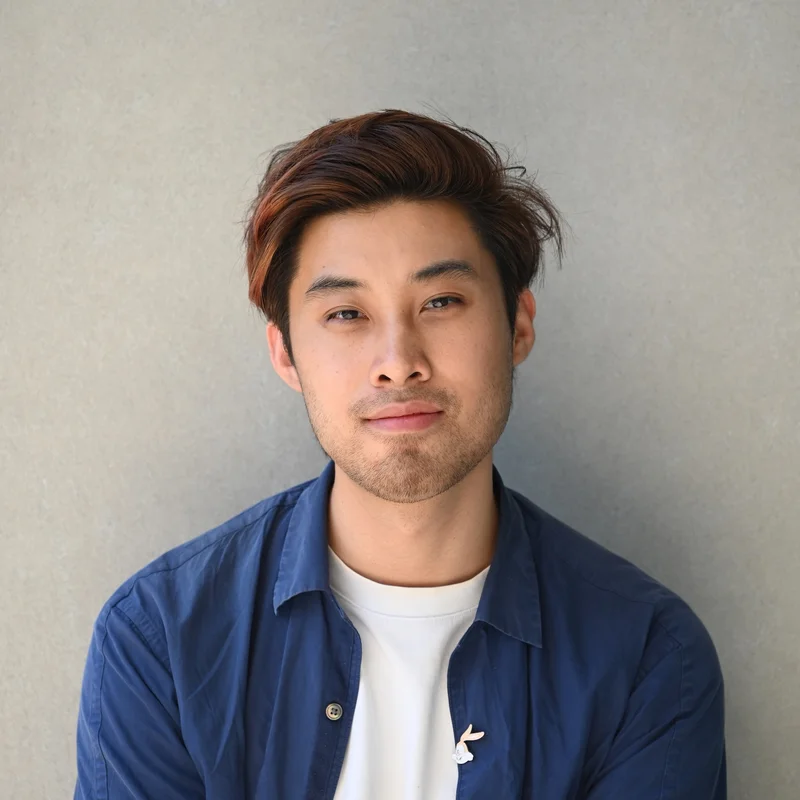
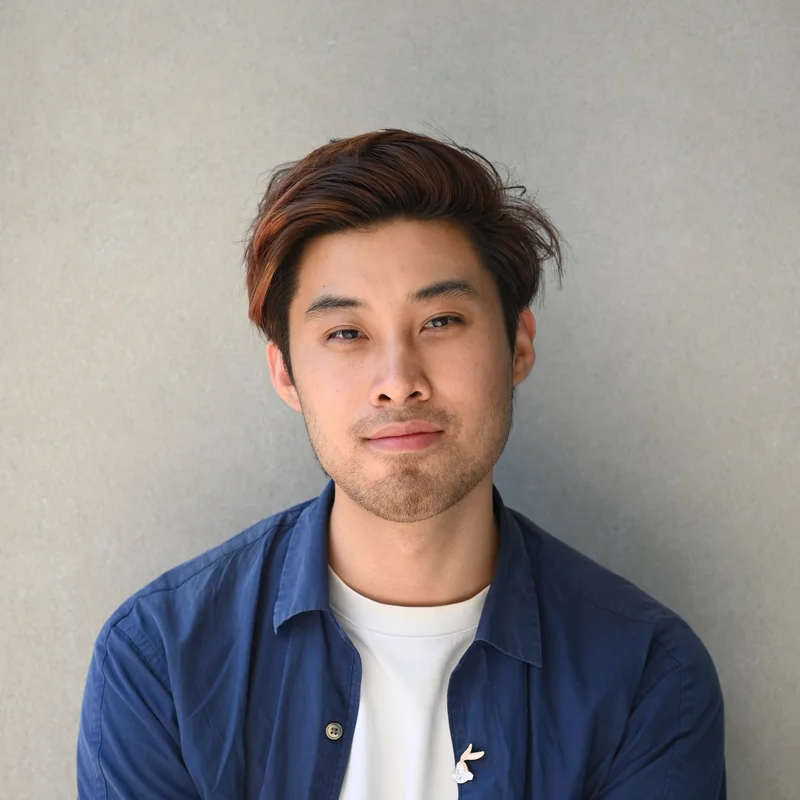
Fellows 2026: re-crop headshots to a common framing; swap Cailyn Min and William Guo
Each headshot is re-cut from the original upload so the face sits at the
same height and scale as Daniel Ben-Levi's and Justin Chen's cards.
Image URLs carry ?v=2 so cached copies refresh.

Claude-Session: https://claude.ai/code/session_01RevRCVzg76PT6JeMzYbngU

diff --git a/fellows-outputs.html b/fellows-outputs.html
@@ -101,7 +101,7 @@
     <div id="fellow-grid" style="display:grid;grid-template-columns:repeat(3,1fr);gap:20px;">
       <div class="fellow-card visible" data-year="2026">
         <div style="position:relative;aspect-ratio:1/1;overflow:hidden;">
-          <img src="images/fellows/2026-daniel-ben-levi.webp" alt="" style="position:absolute;inset:0;width:100%;height:100%;object-fit:cover;display:block;">
+          <img src="images/fellows/2026-daniel-ben-levi.webp?v=2" alt="" style="position:absolute;inset:0;width:100%;height:100%;object-fit:cover;display:block;">
           <div style="position:absolute;inset:0;background:linear-gradient(180deg,transparent 66%,rgba(0,0,0,0.82) 100%);pointer-events:none;"></div>
           <div style="position:absolute;top:12px;left:12px;font-size:10px;letter-spacing:0.08em;color:#ffffff;font-weight:700;opacity:0.8;pointer-events:none;">2026</div>
           <div style="position:absolute;left:14px;right:14px;bottom:12px;color:#ffffff;">
@@ -117,23 +117,22 @@
       </div>
       <div class="fellow-card visible" data-year="2026">
         <div style="position:relative;aspect-ratio:1/1;overflow:hidden;">
-          <img src="images/fellows/2026-william-guo.webp" alt="" style="position:absolute;inset:0;width:100%;height:100%;object-fit:cover;display:block;">
+          <img src="images/fellows/2026-cailyn-min.webp?v=2" alt="" style="position:absolute;inset:0;width:100%;height:100%;object-fit:cover;display:block;">
           <div style="position:absolute;inset:0;background:linear-gradient(180deg,transparent 66%,rgba(0,0,0,0.82) 100%);pointer-events:none;"></div>
           <div style="position:absolute;top:12px;left:12px;font-size:10px;letter-spacing:0.08em;color:#ffffff;font-weight:700;opacity:0.8;pointer-events:none;">2026</div>
           <div style="position:absolute;left:14px;right:14px;bottom:12px;color:#ffffff;">
-            <div style="font-size:14px;font-weight:700;margin-bottom:2px;">William Guo</div>
-            <div style="font-size:10px;opacity:0.75;margin-bottom:3px;line-height:1.3;">University of Chicago</div>
-            <div style="font-size:10px;opacity:0.65;line-height:1.3;font-style:italic;">Mentor: Grant Ho, University of Chicago</div>
+            <div style="font-size:14px;font-weight:700;margin-bottom:2px;">Cailyn Min</div>
+            <div style="font-size:10px;opacity:0.65;line-height:1.3;font-style:italic;">Mentor: Tori Qiu, Carnegie Mellon University</div>
           </div>
         </div>
         <div style="padding:12px 2px 0;">
           <span style="font-size:11px;font-weight:700;color:#4D4D4D;letter-spacing:0.03em;">Project: </span>
-          <a href="files/2026/SRF26_FINAL_Guo_William.pdf" target="_blank" rel="noopener" style="color:#800000;text-decoration:underline;text-underline-offset:2px;font-size:12.5px;font-weight:700;line-height:1.4;font-style:normal;">Evaluating LLM-Generated Attacks on Provenance-Based Intrusion Detectors</a>
+          <a href="files/2026/SRF26_FINAL_Min_Cailyn.pdf" target="_blank" rel="noopener" style="color:#800000;text-decoration:underline;text-underline-offset:2px;font-size:12.5px;font-weight:700;line-height:1.4;font-style:normal;">Incentivizing AI Evaluation through Insurance: A Mechanism Design Approach</a>
         </div>
       </div>
       <div class="fellow-card visible" data-year="2026">
         <div style="position:relative;aspect-ratio:1/1;overflow:hidden;">
-          <img src="images/fellows/2026-noah-peters.webp" alt="" style="position:absolute;inset:0;width:100%;height:100%;object-fit:cover;display:block;">
+          <img src="images/fellows/2026-noah-peters.webp?v=2" alt="" style="position:absolute;inset:0;width:100%;height:100%;object-fit:cover;display:block;">
           <div style="position:absolute;inset:0;background:linear-gradient(180deg,transparent 66%,rgba(0,0,0,0.82) 100%);pointer-events:none;"></div>
           <div style="position:absolute;top:12px;left:12px;font-size:10px;letter-spacing:0.08em;color:#ffffff;font-weight:700;opacity:0.8;pointer-events:none;">2026</div>
           <div style="position:absolute;left:14px;right:14px;bottom:12px;color:#ffffff;">
@@ -164,7 +163,7 @@
       </div>
       <div class="fellow-card visible" data-year="2026">
         <div style="position:relative;aspect-ratio:1/1;overflow:hidden;">
-          <img src="images/fellows/2026-will-fowler.webp" alt="" style="position:absolute;inset:0;width:100%;height:100%;object-fit:cover;display:block;">
+          <img src="images/fellows/2026-will-fowler.webp?v=2" alt="" style="position:absolute;inset:0;width:100%;height:100%;object-fit:cover;display:block;">
           <div style="position:absolute;inset:0;background:linear-gradient(180deg,transparent 66%,rgba(0,0,0,0.82) 100%);pointer-events:none;"></div>
           <div style="position:absolute;top:12px;left:12px;font-size:10px;letter-spacing:0.08em;color:#ffffff;font-weight:700;opacity:0.8;pointer-events:none;">2026</div>
           <div style="position:absolute;left:14px;right:14px;bottom:12px;color:#ffffff;">
@@ -179,7 +178,7 @@
       </div>
       <div class="fellow-card visible" data-year="2026">
         <div style="position:relative;aspect-ratio:1/1;overflow:hidden;">
-          <img src="images/fellows/2026-justin-chen.webp" alt="" style="position:absolute;inset:0;width:100%;height:100%;object-fit:cover;display:block;">
+          <img src="images/fellows/2026-justin-chen.webp?v=2" alt="" style="position:absolute;inset:0;width:100%;height:100%;object-fit:cover;display:block;">
           <div style="position:absolute;inset:0;background:linear-gradient(180deg,transparent 66%,rgba(0,0,0,0.82) 100%);pointer-events:none;"></div>
           <div style="position:absolute;top:12px;left:12px;font-size:10px;letter-spacing:0.08em;color:#ffffff;font-weight:700;opacity:0.8;pointer-events:none;">2026</div>
           <div style="position:absolute;left:14px;right:14px;bottom:12px;color:#ffffff;">
@@ -195,7 +194,7 @@
       </div>
       <div class="fellow-card visible" data-year="2026">
         <div style="position:relative;aspect-ratio:1/1;overflow:hidden;">
-          <img src="images/fellows/2026-talia-wilcox.webp" alt="" style="position:absolute;inset:0;width:100%;height:100%;object-fit:cover;display:block;">
+          <img src="images/fellows/2026-talia-wilcox.webp?v=2" alt="" style="position:absolute;inset:0;width:100%;height:100%;object-fit:cover;display:block;">
           <div style="position:absolute;inset:0;background:linear-gradient(180deg,transparent 66%,rgba(0,0,0,0.82) 100%);pointer-events:none;"></div>
           <div style="position:absolute;top:12px;left:12px;font-size:10px;letter-spacing:0.08em;color:#ffffff;font-weight:700;opacity:0.8;pointer-events:none;">2026</div>
           <div style="position:absolute;left:14px;right:14px;bottom:12px;color:#ffffff;">
@@ -210,7 +209,7 @@
       </div>
       <div class="fellow-card visible" data-year="2026">
         <div style="position:relative;aspect-ratio:1/1;overflow:hidden;">
-          <img src="images/fellows/2026-carl-parkin.webp" alt="" style="position:absolute;inset:0;width:100%;height:100%;object-fit:cover;display:block;">
+          <img src="images/fellows/2026-carl-parkin.webp?v=2" alt="" style="position:absolute;inset:0;width:100%;height:100%;object-fit:cover;display:block;">
           <div style="position:absolute;inset:0;background:linear-gradient(180deg,transparent 66%,rgba(0,0,0,0.82) 100%);pointer-events:none;"></div>
           <div style="position:absolute;top:12px;left:12px;font-size:10px;letter-spacing:0.08em;color:#ffffff;font-weight:700;opacity:0.8;pointer-events:none;">2026</div>
           <div style="position:absolute;left:14px;right:14px;bottom:12px;color:#ffffff;">
@@ -225,22 +224,23 @@
       </div>
       <div class="fellow-card visible" data-year="2026">
         <div style="position:relative;aspect-ratio:1/1;overflow:hidden;">
-          <img src="images/fellows/2026-cailyn-min.webp" alt="" style="position:absolute;inset:0;width:100%;height:100%;object-fit:cover;display:block;">
+          <img src="images/fellows/2026-william-guo.webp?v=2" alt="" style="position:absolute;inset:0;width:100%;height:100%;object-fit:cover;display:block;">
           <div style="position:absolute;inset:0;background:linear-gradient(180deg,transparent 66%,rgba(0,0,0,0.82) 100%);pointer-events:none;"></div>
           <div style="position:absolute;top:12px;left:12px;font-size:10px;letter-spacing:0.08em;color:#ffffff;font-weight:700;opacity:0.8;pointer-events:none;">2026</div>
           <div style="position:absolute;left:14px;right:14px;bottom:12px;color:#ffffff;">
-            <div style="font-size:14px;font-weight:700;margin-bottom:2px;">Cailyn Min</div>
-            <div style="font-size:10px;opacity:0.65;line-height:1.3;font-style:italic;">Mentor: Tori Qiu, Carnegie Mellon University</div>
+            <div style="font-size:14px;font-weight:700;margin-bottom:2px;">William Guo</div>
+            <div style="font-size:10px;opacity:0.75;margin-bottom:3px;line-height:1.3;">University of Chicago</div>
+            <div style="font-size:10px;opacity:0.65;line-height:1.3;font-style:italic;">Mentor: Grant Ho, University of Chicago</div>
           </div>
         </div>
         <div style="padding:12px 2px 0;">
           <span style="font-size:11px;font-weight:700;color:#4D4D4D;letter-spacing:0.03em;">Project: </span>
-          <a href="files/2026/SRF26_FINAL_Min_Cailyn.pdf" target="_blank" rel="noopener" style="color:#800000;text-decoration:underline;text-underline-offset:2px;font-size:12.5px;font-weight:700;line-height:1.4;font-style:normal;">Incentivizing AI Evaluation through Insurance: A Mechanism Design Approach</a>
+          <a href="files/2026/SRF26_FINAL_Guo_William.pdf" target="_blank" rel="noopener" style="color:#800000;text-decoration:underline;text-underline-offset:2px;font-size:12.5px;font-weight:700;line-height:1.4;font-style:normal;">Evaluating LLM-Generated Attacks on Provenance-Based Intrusion Detectors</a>
         </div>
       </div>
       <div class="fellow-card visible" data-year="2026">
         <div style="position:relative;aspect-ratio:1/1;overflow:hidden;">
-          <img src="images/fellows/2026-patrick-park.webp" alt="" style="position:absolute;inset:0;width:100%;height:100%;object-fit:cover;display:block;">
+          <img src="images/fellows/2026-patrick-park.webp?v=2" alt="" style="position:absolute;inset:0;width:100%;height:100%;object-fit:cover;display:block;">
           <div style="position:absolute;inset:0;background:linear-gradient(180deg,transparent 66%,rgba(0,0,0,0.82) 100%);pointer-events:none;"></div>
           <div style="position:absolute;top:12px;left:12px;font-size:10px;letter-spacing:0.08em;color:#ffffff;font-weight:700;opacity:0.8;pointer-events:none;">2026</div>
           <div style="position:absolute;left:14px;right:14px;bottom:12px;color:#ffffff;">
@@ -256,7 +256,7 @@
       </div>
       <div class="fellow-card visible" data-year="2026">
         <div style="position:relative;aspect-ratio:1/1;overflow:hidden;">
-          <img src="images/fellows/2026-vainateya-rangaraju.webp" alt="" style="position:absolute;inset:0;width:100%;height:100%;object-fit:cover;display:block;">
+          <img src="images/fellows/2026-vainateya-rangaraju.webp?v=2" alt="" style="position:absolute;inset:0;width:100%;height:100%;object-fit:cover;display:block;">
           <div style="position:absolute;inset:0;background:linear-gradient(180deg,transparent 66%,rgba(0,0,0,0.82) 100%);pointer-events:none;"></div>
           <div style="position:absolute;top:12px;left:12px;font-size:10px;letter-spacing:0.08em;color:#ffffff;font-weight:700;opacity:0.8;pointer-events:none;">2026</div>
           <div style="position:absolute;left:14px;right:14px;bottom:12px;color:#ffffff;">
